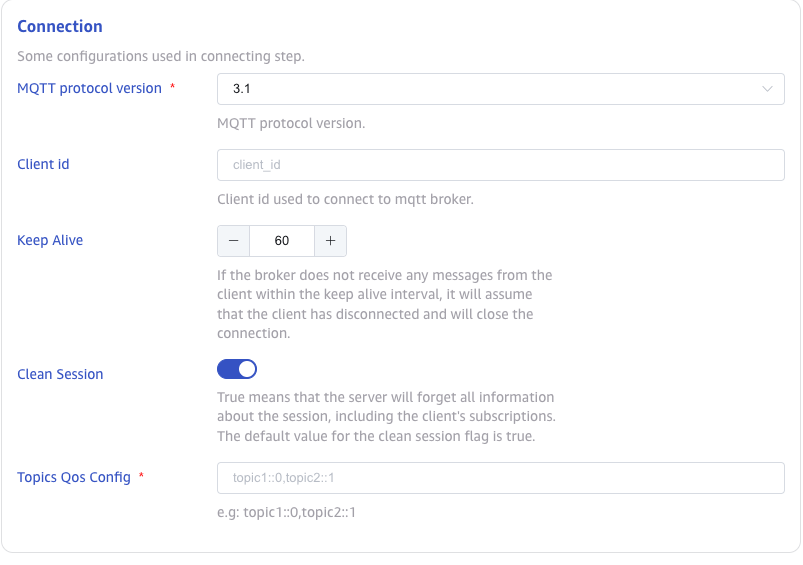
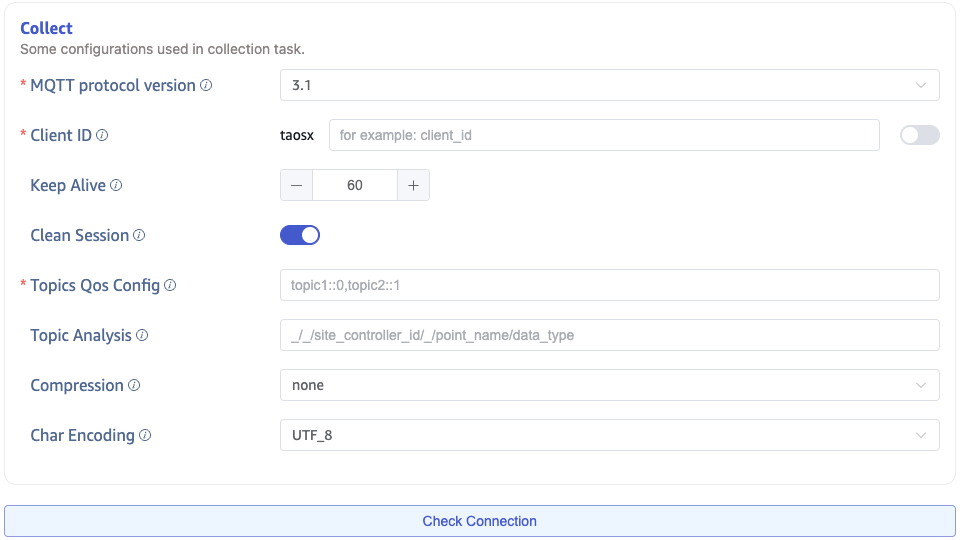
docs(mqtt): update docs for mqtt topic parser/compression/encoding

diff --git a/docs/en/06-advanced/05-data-in/07-mqtt.md b/docs/en/06-advanced/05-data-in/07-mqtt.md
@@ -86,9 +86,15 @@ The keep alive interval is the time interval negotiated between the client and t
 
 In **Clean Session**, choose whether to clear the session. The default value is true.
 
-Fill in the Topic names to be consumed in **Subscription Topics and QoS Configuration**. Use the following format: `topic1::0,topic2::1`.
+In the **Topics Qos Config**, fill in the topic name and QoS to subscribe. Use the following format: `{topic_name}::{qos}` (e.g., `my_topic::0`). MQTT protocol 5.0 supports shared subscriptions, allowing multiple clients to subscribe to the same topic for load balancing. Use the following format: `$share/{group_name}/{topic_name}::{qos}`, where `$share` is a fixed prefix indicating the enablement of shared subscription, and `group_name` is the client group name, similar to Kafka's consumer group.
 
-Click the **Check Connectivity** button to check if the data source is available.
+In the **Topic Analysis**, fill in the MQTT topic parsing rules. The format is the same as the MQTT Topic, parsing each level of the MQTT Topic into corresponding variable names, with `_` indicating that the current level is ignored during parsing. For example: if the MQTT Topic `a/+/c` corresponds to the parsing rule `v1/v2/_`, it means assigning the first level `a` to variable `v1`, the value of the second level (where the wildcard `+` represents any value) to variable `v2`, and ignoring the value of the third level `c`, which will not be assigned to any variable. In the `payload parsing` below, the variables obtained from Topic parsing can also participate in various transformations and calculations.
+
+In the **Compression**, configure the message body compression algorithm. After receiving the message, taosX uses the corresponding compression algorithm to decompress the message body and obtain the original data. Options include none (no compression), gzip, snappy, lz4, and zstd, with the default being none.
+
+In the **Char Encoding**, configure the message body encoding format. After receiving the message, taosX uses the corresponding encoding format to decode the message body and obtain the original data. Options include UTF_8, GBK, GB18030, and BIG5, with the default being UTF_8.
+
+Click the **Check Connection** button to check if the data source is available.
 
 <figure>
 <Image img={imgStep05} alt=""/>
